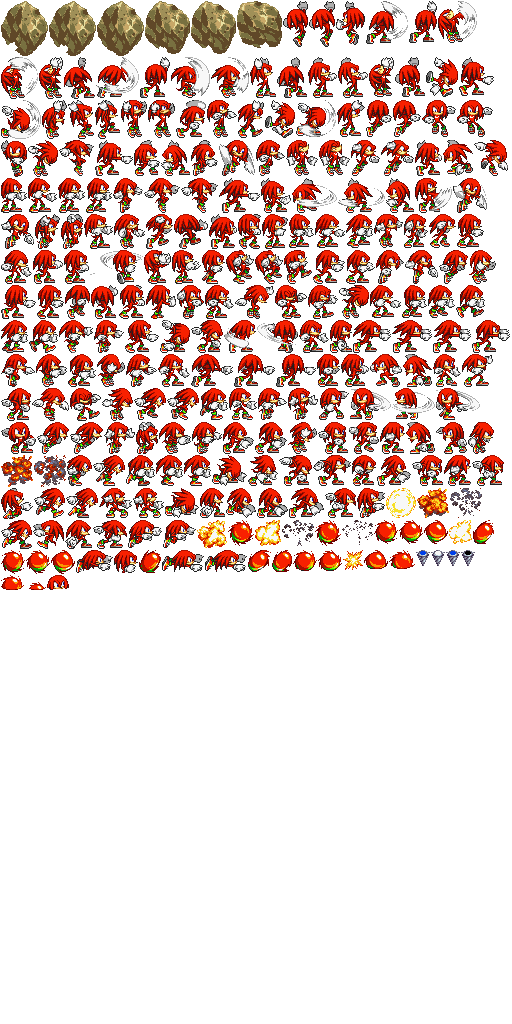
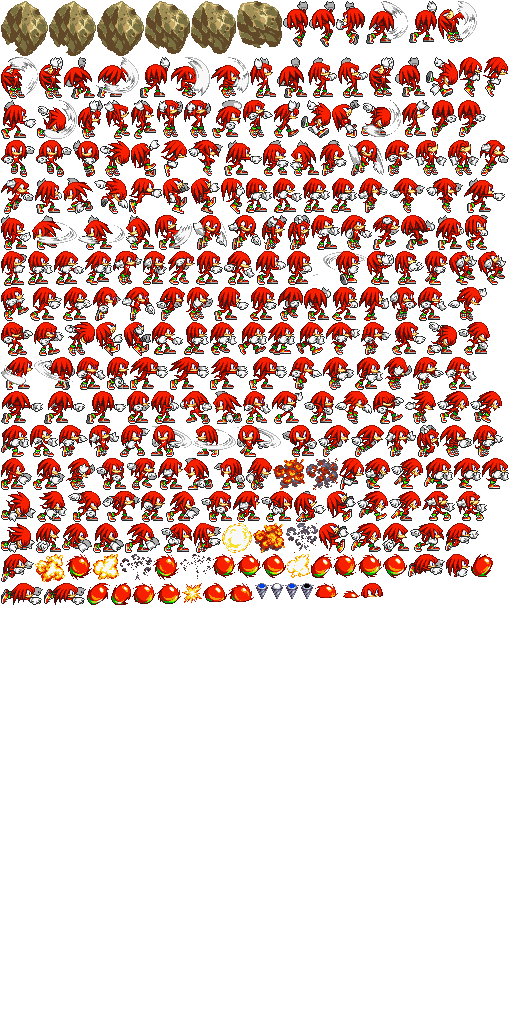
Adventure 2: Knuckles climbs in Sonic Advance's frames; balls only out of a roll
Knuckles' grab, cling, climb (fists in turn, run backwards climbing down) and
pull-up over the top come from Sonic Advance's sheet (ripped by AsuharaMoon),
mapped colour for colour onto his Sonic Battle palette; he faces the wall, and
pulls himself onto the ledge instead of popping up.

A jump is a ball only out of a Spin Dash or a roll (and only that ball hurts
what it touches); any other jump uses the runner's own jumping and falling
frames. Shadow's curl is his Spin Dash ball: his sheet's jump row is a
somersault.

(Carried over from Mikale4/post-parade@37f4cfc, where Red Ring Circuit began as the hall's arcade cabinet.)

Changed region(s): [[0.0, 0.0312, 1.0, 0.5938]]

diff --git a/adventure-sprites.js b/adventure-sprites.js
@@ -71,39 +71,41 @@
       "spin": [[168,490,26,26,12.9],[1,521,24,24,12.0],[26,521,24,24,12.1],[51,521,24,24,12.0]],
     } },
     knuckles: { url: "assets/guests/sb-knuckles.png", w: 512, h: 1024, f: {
-      "idle": [[289,214,25,34,10.3],[1,178,26,35,10.2],[28,178,29,35,10.9],[370,285,31,33,11.8],[315,214,30,34,12.4],[58,178,27,35,11.8],[86,178,26,35,11.9],[402,285,25,33,12.2]],
-      "dash": [[67,455,25,31,12.7],[34,488,31,30,18.3],[93,455,32,31,19.1],[134,388,32,32,19.8],[1,520,31,29,18.5],[66,488,32,30,19.1],[167,388,32,32,19.8]],
-      "start": [[428,285,27,33,12.5]],
-      "run": [[456,285,29,33,15.8],[126,455,29,31,14.9],[156,455,27,31,13.5],[1,320,27,33,14.0],[29,320,29,33,15.8],[200,388,28,32,13.9],[184,455,27,31,13.5],[346,214,27,34,14.0]],
-      "skid": [[59,320,34,33,15.8],[99,488,33,30,15.0],[133,488,31,30,13.3],[229,388,28,32,10.9]],
-      "jump": [[121,100,26,38,13.3],[148,100,27,38,13.7],[374,214,29,34,14.4],[94,320,30,33,12.8],[258,388,29,32,11.5]],
-      "fall": [[113,178,30,35,13.6],[144,178,36,35,18.7],[181,178,37,35,19.7],[59,140,35,36,17.9]],
-      "land": [[212,455,35,31,18.0],[165,488,34,30,18.2],[248,455,30,31,15.6]],
-      "glide": [[288,388,30,32,12.2],[128,520,34,28,16.0],[162,550,42,22,24.6],[205,550,42,22,23.9],[76,550,37,23,19.5],[163,520,33,28,15.7]],
-      "cling": [[33,520,31,29,15.8]],
-      "ball": [[374,520,24,24,12.0],[399,520,24,24,12.1],[424,520,24,24,12.0],[228,520,26,26,12.9]],
-      "atk1": [[404,214,24,34,11.3],[429,214,27,34,14.2],[219,178,41,35,16.3],[95,140,38,36,14.1],[125,320,34,33,14.7],[457,214,27,34,12.5]],
-      "atk2": [[459,57,35,39,12.7],[176,100,30,38,19.2],[1,100,40,39,19.8],[296,100,40,37,16.1],[160,320,30,33,14.7],[191,320,32,33,17.8],[1,250,31,34,15.3]],
-      "atk3": [[279,455,33,31,16.7],[313,455,38,31,21.1],[224,320,32,33,19.4],[96,57,43,41,26.2],[366,1,42,43,23.6],[409,1,28,42,20.5],[140,57,30,41,20.7],[33,250,30,34,12.5],[64,250,25,34,11.5]],
-      "heavy": [[261,178,30,35,10.0],[134,140,26,36,12.1],[319,388,30,32,15.1],[350,388,41,32,15.3],[392,388,43,32,14.5],[257,320,41,33,20.9],[90,250,53,34,31.5],[436,388,44,32,16.0],[292,178,45,35,16.2],[338,178,47,35,17.8],[161,140,29,36,12.8],[386,178,28,35,10.9],[1,422,35,32,16.5],[299,320,30,33,12.4]],
-      "upper": [[200,488,25,30,12.5],[65,520,27,29,14.4],[330,320,22,33,11.4],[415,178,37,35,11.7],[438,1,39,42,23.7],[1,57,37,42,18.2],[39,57,24,42,15.0],[369,57,25,40,16.1],[144,250,27,34,13.1],[172,250,29,34,10.6]],
-      "dashatk": [[202,250,23,34,10.8],[226,250,28,34,13.0],[255,250,28,34,12.6],[284,250,28,34,11.7],[353,320,38,33,16.7],[392,320,40,33,18.1],[433,320,38,33,17.0],[472,320,38,33,17.6],[313,250,32,34,14.8],[346,250,29,34,12.8]],
-      "airatk": [[191,140,27,36,12.5],[376,250,28,34,13.3],[219,140,36,36,16.0],[453,178,34,35,15.8],[1,214,33,35,16.3],[405,250,33,34,15.7],[1,354,34,33,15.3]],
-      "seek": [[207,100,30,38,11.5],[256,140,29,36,12.7],[439,250,29,34,17.1],[37,422,32,32,19.9],[70,422,33,32,20.0]],
-      "aim": [[104,422,31,32,14.6],[35,214,25,35,13.9],[61,214,22,35,13.0],[136,422,22,32,11.2],[42,100,25,39,15.6],[171,57,39,41,23.1],[211,57,38,41,21.2],[159,422,32,32,13.9],[36,354,31,33,13.3],[192,422,30,32,12.8]],
-      "shot": [[84,214,29,35,11.7],[352,455,24,31,12.1],[226,488,30,30,14.0],[257,488,31,30,13.2],[223,422,31,32,12.0],[337,100,28,37,15.3],[250,57,26,41,11.9],[68,100,26,39,11.7],[95,100,25,39,11.2],[238,100,26,38,15.0],[289,488,35,30,15.9],[377,455,34,31,17.0],[255,422,32,32,15.8],[68,354,28,33,13.4]],
-      "airshot": [[97,354,28,33,13.2],[288,422,29,32,14.9],[469,250,27,34,11.7],[286,140,32,36,12.6],[319,140,31,36,12.5],[114,214,31,35,13.5],[126,354,31,33,13.2]],
-      "power": [[158,354,32,33,13.8],[318,422,30,32,16.8],[412,455,31,31,17.5],[349,422,30,32,15.1],[351,140,29,36,12.9],[381,140,33,36,15.3],[146,214,27,35,14.2],[191,354,42,33,15.3],[234,354,41,33,16.9],[276,354,40,33,17.0],[1,285,35,34,15.3],[37,285,27,34,12.5],[317,354,23,33,11.2],[380,422,25,32,13.4],[444,455,27,31,14.9],[65,285,25,34,13.5],[366,100,26,37,12.0],[393,100,28,37,11.2],[174,214,34,35,14.8],[64,57,31,42,15.9],[277,57,30,41,16.7],[395,57,30,40,16.7],[91,285,27,34,14.0],[341,354,28,33,12.1],[119,285,26,34,13.0],[415,140,27,36,12.1],[209,214,28,35,12.5],[238,214,23,35,11.7],[422,100,34,37,17.4],[457,100,36,37,17.3],[370,354,32,33,15.3],[443,140,30,36,13.7],[403,354,29,33,11.9],[406,422,29,32,10.9],[436,422,31,32,15.4],[433,354,28,33,11.8]],
-      "airpower": [[374,520,24,24,12.0],[399,520,24,24,12.1],[424,520,24,24,12.0],[228,520,26,26,12.9],[293,550,24,21,11.9],[318,550,24,21,12.0],[364,550,24,19,12.4],[389,550,26,19,13.2],[1,575,45,15,10.5],[47,575,22,15,11.1],[114,550,24,23,11.6],[146,285,30,34,13.3],[283,1,25,46,16.7],[309,1,26,46,17.1],[336,1,29,44,16.0],[1,140,26,37,12.5],[177,285,27,34,12.9]],
-      "trap": [[262,214,26,35,13.1],[308,57,29,41,11.6],[338,57,30,41,10.3],[462,354,31,33,16.3],[93,520,34,29,18.4],[325,488,31,30,16.7],[472,455,32,31,17.9],[1,388,30,33,18.5],[205,285,29,34,12.4]],
-      "airtrap": [[357,488,28,30,13.8],[1,488,32,31,12.1],[235,285,39,34,24.5],[265,100,30,38,16.4],[426,57,32,40,18.5],[474,140,34,36,17.2],[32,388,37,33,20.6]],
-      "hit": [[275,285,32,34,13.2],[70,388,31,33,13.9],[308,285,30,34,12.6]],
-      "out": [[28,140,30,37,15.7],[339,285,30,34,15.8],[102,388,31,33,19.1],[468,422,26,32,14.8]],
+      "idle": [[28,251,25,34,10.3],[246,178,26,35,10.2],[273,178,29,35,10.9],[152,322,31,33,11.8],[54,251,30,34,12.4],[303,178,27,35,11.8],[331,178,26,35,11.9],[184,322,25,33,12.2]],
+      "dash": [[365,458,25,31,12.7],[357,491,31,30,18.3],[391,458,32,31,19.1],[437,391,32,32,19.8],[350,523,31,29,18.5],[389,491,32,30,19.1],[470,391,32,32,19.8]],
+      "start": [[210,322,27,33,12.5]],
+      "run": [[238,322,29,33,15.8],[424,458,29,31,14.9],[454,458,27,31,13.5],[268,322,27,33,14.0],[296,322,29,33,15.8],[1,425,28,32,13.9],[482,458,27,31,13.5],[85,251,27,34,14.0]],
+      "skid": [[326,322,34,33,15.8],[422,491,33,30,15.0],[456,491,31,30,13.3],[30,425,28,32,10.9]],
+      "jump": [[157,100,26,38,13.3],[184,100,27,38,13.7],[113,251,29,34,14.4],[361,322,30,33,12.8],[59,425,29,32,11.5]],
+      "fall": [[358,178,30,35,13.6],[389,178,36,35,18.7],[426,178,37,35,19.7],[188,140,35,36,17.9]],
+      "land": [[1,491,35,31,18.0],[1,523,34,30,18.2],[37,491,30,31,15.6]],
+      "glide": [[89,425,30,32,12.2],[445,523,34,28,16.0],[1,583,42,22,24.6],[44,583,42,22,23.9],[408,554,37,23,19.5],[1,554,33,28,15.7]],
+      "atk1": [[143,251,24,34,11.3],[168,251,27,34,14.2],[464,178,41,35,16.3],[224,140,38,36,14.1],[392,322,34,33,14.7],[196,251,27,34,12.5]],
+      "atk2": [[1,100,35,39,12.7],[212,100,30,38,19.2],[37,100,40,39,19.8],[361,100,40,37,16.1],[427,322,30,33,14.7],[458,322,32,33,17.8],[224,251,31,34,15.3]],
+      "atk3": [[68,491,33,31,16.7],[102,491,38,31,21.1],[1,357,32,33,19.4],[96,57,43,41,26.2],[366,1,42,43,23.6],[409,1,28,42,20.5],[140,57,30,41,20.7],[256,251,30,34,12.5],[287,251,25,34,11.5]],
+      "heavy": [[1,215,30,35,10.0],[263,140,26,36,12.1],[120,425,30,32,15.1],[151,425,41,32,15.3],[193,425,43,32,14.5],[34,357,41,33,20.9],[313,251,53,34,31.5],[237,425,44,32,16.0],[32,215,45,35,16.2],[78,215,47,35,17.8],[290,140,29,36,12.8],[126,215,28,35,10.9],[282,425,35,32,16.5],[76,357,30,33,12.4]],
+      "upper": [[36,523,25,30,12.5],[382,523,27,29,14.4],[107,357,22,33,11.4],[155,215,37,35,11.7],[438,1,39,42,23.7],[1,57,37,42,18.2],[39,57,24,42,15.0],[369,57,25,40,16.1],[367,251,27,34,13.1],[395,251,29,34,10.6]],
+      "dashatk": [[425,251,23,34,10.8],[449,251,28,34,13.0],[478,251,28,34,12.6],[1,287,28,34,11.7],[130,357,38,33,16.7],[169,357,40,33,18.1],[210,357,38,33,17.0],[249,357,38,33,17.6],[30,287,32,34,14.8],[63,287,29,34,12.8]],
+      "airatk": [[320,140,27,36,12.5],[93,287,28,34,13.3],[348,140,36,36,16.0],[193,215,34,35,15.8],[228,215,33,35,16.3],[122,287,33,34,15.7],[288,357,34,33,15.3]],
+      "seek": [[243,100,30,38,11.5],[385,140,29,36,12.7],[156,287,29,34,17.1],[318,425,32,32,19.9],[351,425,33,32,20.0]],
+      "aim": [[385,425,31,32,14.6],[262,215,25,35,13.9],[288,215,22,35,13.0],[417,425,22,32,11.2],[78,100,25,39,15.6],[171,57,39,41,23.1],[211,57,38,41,21.2],[440,425,32,32,13.9],[323,357,31,33,13.3],[473,425,30,32,12.8]],
+      "shot": [[311,215,29,35,11.7],[141,491,24,31,12.1],[62,523,30,30,14.0],[93,523,31,30,13.2],[1,458,31,32,12.0],[402,100,28,37,15.3],[250,57,26,41,11.9],[104,100,26,39,11.7],[131,100,25,39,11.2],[274,100,26,38,15.0],[125,523,35,30,15.9],[166,491,34,31,17.0],[33,458,32,32,15.8],[355,357,28,33,13.4]],
+      "airshot": [[384,357,28,33,13.2],[66,458,29,32,14.9],[186,287,27,34,11.7],[415,140,32,36,12.6],[448,140,31,36,12.5],[341,215,31,35,13.5],[413,357,31,33,13.2]],
+      "power": [[445,357,32,33,13.8],[96,458,30,32,16.8],[201,491,31,31,17.5],[127,458,30,32,15.1],[480,140,29,36,12.9],[1,178,33,36,15.3],[373,215,27,35,14.2],[1,391,42,33,15.3],[44,391,41,33,16.9],[86,391,40,33,17.0],[214,287,35,34,15.3],[250,287,27,34,12.5],[127,391,23,33,11.2],[158,458,25,32,13.4],[233,491,27,31,14.9],[278,287,25,34,13.5],[431,100,26,37,12.0],[458,100,28,37,11.2],[401,215,34,35,14.8],[64,57,31,42,15.9],[277,57,30,41,16.7],[395,57,30,40,16.7],[304,287,27,34,14.0],[151,391,28,33,12.1],[332,287,26,34,13.0],[35,178,27,36,12.1],[436,215,28,35,12.5],[465,215,23,35,11.7],[1,140,34,37,17.4],[36,140,36,37,17.3],[180,391,32,33,15.3],[63,178,30,36,13.7],[213,391,29,33,11.9],[184,458,29,32,10.9],[214,458,31,32,15.4],[243,391,28,33,11.8]],
+      "airpower": [[212,554,24,24,12.0],[237,554,24,24,12.1],[262,554,24,24,12.0],[66,554,26,26,12.9],[132,583,24,21,11.9],[157,583,24,21,12.0],[203,583,24,19,12.4],[228,583,26,19,13.2],[315,583,45,15,10.5],[361,583,22,15,11.1],[446,554,24,23,11.6],[359,287,30,34,13.3],[283,1,25,46,16.7],[309,1,26,46,17.1],[336,1,29,44,16.0],[73,140,26,37,12.5],[390,287,27,34,12.9]],
+      "trap": [[1,251,26,35,13.1],[308,57,29,41,11.6],[338,57,30,41,10.3],[272,391,31,33,16.3],[410,523,34,29,18.4],[161,523,31,30,16.7],[261,491,32,31,17.9],[304,391,30,33,18.5],[418,287,29,34,12.4]],
+      "airtrap": [[193,523,28,30,13.8],[294,491,32,31,12.1],[448,287,39,34,24.5],[301,100,30,38,16.4],[426,57,32,40,18.5],[94,178,34,36,17.2],[335,391,37,33,20.6]],
+      "hit": [[1,322,32,34,13.2],[373,391,31,33,13.9],[34,322,30,34,12.6]],
+      "out": [[100,140,30,37,15.7],[65,322,30,34,15.8],[405,391,31,33,19.1],[246,458,26,32,14.8]],
       "fx.shot": [[1,1,47,55,23.5],[145,1,45,53,22.5],[237,1,45,47,22.5],[191,1,45,53,22.5],[49,1,47,55,23.5],[97,1,47,55,23.5]],
-      "fx.power": [[343,550,20,20,10.0],[386,488,30,30,15.0],[449,520,23,24,11.5],[255,520,26,26,13.0],[197,520,30,28,15.0],[417,488,32,30,16.0],[1,455,32,32,16.0],[34,455,32,32,16.0],[450,488,32,30,16.0],[282,520,32,26,16.0],[342,520,31,25,15.5]],
-      "fx.trap": [[416,550,14,16,7.0],[431,550,14,16,7.0],[446,550,14,16,7.0],[461,550,14,16,7.0]],
-      "rev": [[248,550,23,22,13.3],[473,520,21,24,12.5],[139,550,22,23,12.6],[272,550,20,22,11.8]],
-      "spin": [[315,520,26,26,12.9],[1,550,24,24,12.0],[26,550,24,24,12.1],[51,550,24,24,12.0]],
+      "fx.power": [[182,583,20,20,10.0],[222,523,30,30,15.0],[287,554,23,24,11.5],[93,554,26,26,13.0],[35,554,30,28,15.0],[253,523,32,30,16.0],[273,458,32,32,16.0],[306,458,32,32,16.0],[286,523,32,30,16.0],[120,554,32,26,16.0],[180,554,31,25,15.5]],
+      "fx.trap": [[255,583,14,16,7.0],[270,583,14,16,7.0],[285,583,14,16,7.0],[300,583,14,16,7.0]],
+      "rev": [[87,583,23,22,13.3],[311,554,21,24,12.5],[471,554,22,23,12.6],[111,583,20,22,11.8]],
+      "spin": [[153,554,26,26,12.9],[333,554,24,24,12.0],[358,554,24,24,12.1],[383,554,24,24,12.0]],
+      "grab": [[129,178,33,36,14.7]],
+      "cling": [[319,523,30,30,13.8],[327,491,29,31,12.6]],
+      "climb": [[96,322,27,34,10.4],[332,100,28,38,14.8],[163,178,27,36,12.5],[124,322,27,34,10.7],[131,140,29,37,14.7],[191,178,29,36,13.3]],
+      "ledge": [[221,178,24,36,10.8],[459,57,23,40,11.5],[483,57,25,40,13.7],[161,140,26,37,14.1],[339,458,25,32,13.5]],
     } },
     amy: { url: "assets/guests/sb-amy.png", w: 512, h: 512, f: {
       "idle": [[195,224,28,33,15.5],[224,224,24,33,13.4],[187,188,23,34,12.8],[249,224,25,33,14.0],[275,224,28,33,15.9],[304,224,30,33,16.0],[211,188,33,34,17.0],[335,224,33,33,16.8]],
@@ -169,38 +171,37 @@
     } },
     shadow: { url: "assets/guests/sb-shadow.png", w: 512, h: 1024, f: {
       "idle": [[76,274,31,35,11.7],[108,274,30,35,13.4],[61,383,28,34,12.4],[90,383,26,34,11.6],[355,199,28,36,11.8],[384,199,30,36,11.7]],
-      "dash": [[139,274,28,35,14.3],[406,524,34,32,20.1],[117,383,34,34,20.2],[441,524,34,32,19.4],[476,524,35,32,20.6]],
-      "start": [[1,558,28,32,16.6]],
-      "run": [[415,199,31,36,19.3],[168,274,27,35,15.3],[196,274,42,35,25.3],[447,199,38,36,21.3],[239,274,42,35,26.0],[1,237,41,36,24.9],[152,383,43,34,27.1],[282,274,40,35,24.1],[44,489,43,33,27.1],[196,383,43,34,27.9],[30,558,41,32,26.2],[240,383,42,34,26.9],[283,383,41,34,25.3],[325,383,32,34,15.3],[323,274,27,35,15.3],[351,274,23,35,11.3],[375,274,38,35,24.3],[308,159,34,37,20.3],[414,274,40,35,25.0],[343,159,39,37,23.9],[358,383,38,34,26.1],[43,237,34,36,22.8],[397,383,38,34,26.1],[455,274,39,35,27.3],[88,489,38,33,25.3],[1,311,39,35,26.3],[41,311,39,35,24.3],[81,311,32,35,16.3]],
-      "skid": [[446,591,31,31,11.1],[1,624,36,31,11.1],[72,558,32,32,11.1],[38,624,34,31,11.1],[73,624,30,31,11.1],[104,624,32,31,11.1],[105,558,31,32,11.1],[137,624,34,31,11.1],[137,558,33,32,13.1],[171,558,28,32,11.1],[200,558,26,32,10.6]],
-      "jump": [[83,159,33,38,13.4],[383,159,31,37,12.2],[403,656,31,26,15.1]],
-      "ball": [[436,383,30,34,18.9],[90,656,30,30,8.0],[242,656,32,28,16.0]],
-      "fall": [[127,489,27,33,12.1],[114,311,27,35,12.1],[78,237,32,36,13.8],[337,110,34,39,19.6],[372,110,33,39,19.1]],
-      "land": [[227,558,26,32,12.0],[121,656,27,30,11.9],[467,383,24,34,11.7]],
-      "teleport": [[172,624,34,31,21.6],[207,624,34,31,20.4],[242,624,34,31,21.1],[277,624,34,31,21.1],[155,489,29,33,16.9]],
-      "after": [[254,558,27,32,12.0],[282,558,27,32,12.0],[310,558,27,32,11.4],[338,558,27,32,12.5]],
-      "atk1": [[111,237,28,36,12.6],[140,237,30,36,13.0],[142,311,38,35,10.7],[366,558,42,32,19.2],[409,558,42,32,19.4],[1,419,31,34,15.6]],
-      "atk2": [[185,489,28,33,15.3],[33,419,30,34,11.1],[406,110,35,39,15.2],[171,237,34,36,14.7],[181,311,25,35,10.1],[64,419,30,34,17.0],[312,624,36,31,20.5],[95,419,36,34,17.7]],
-      "atk3": [[207,311,25,35,10.1],[233,311,27,35,14.0],[261,311,39,35,12.3],[435,656,37,26,17.2],[275,656,40,28,13.9],[452,558,35,32,12.2],[1,591,38,32,16.2],[40,591,36,32,20.5],[132,419,36,34,17.7]],
-      "heavy": [[77,591,27,32,12.0],[301,311,30,35,13.2],[117,159,28,38,14.5],[256,110,26,40,13.6],[146,159,33,38,13.4],[415,159,31,37,12.2],[180,159,33,38,13.4],[447,159,35,37,15.1],[442,110,34,39,19.6],[105,591,36,32,20.5],[169,419,36,34,17.7]],
-      "upper": [[206,419,27,34,13.7],[234,419,27,34,13.7],[214,489,26,33,12.3],[142,591,33,32,16.2],[176,591,31,32,15.5],[208,591,31,32,15.2],[349,624,31,31,16.1],[240,591,31,32,15.2],[272,591,31,32,15.5],[381,624,31,31,15.8],[413,624,31,31,16.1],[304,591,31,32,14.9],[262,419,30,34,12.4]],
-      "dashatk": [[241,489,32,33,10.7],[274,489,32,33,11.9],[307,489,32,33,11.1],[340,489,32,33,11.1],[373,489,32,33,11.2],[406,489,32,33,11.2],[439,489,32,33,11.1],[472,489,32,33,11.1],[1,524,33,33,17.1],[35,524,33,33,17.1],[293,419,31,34,16.2]],
-      "airatk": [[332,311,35,35,17.6],[69,524,28,33,14.2],[98,524,35,33,18.8],[134,524,30,33,15.5],[445,624,31,31,16.1],[206,237,30,36,12.2],[368,311,29,35,12.1]],
-      "seek": [[325,419,32,34,20.1],[358,419,32,34,20.1],[391,419,32,34,19.5],[424,419,32,34,20.3],[457,419,30,34,16.1]],
+      "dash": [[139,274,28,35,14.3],[372,523,34,32,20.1],[117,383,34,34,20.2],[407,523,34,32,19.4],[442,523,35,32,20.6]],
+      "start": [[478,523,28,32,16.6]],
+      "run": [[415,199,31,36,19.3],[168,274,27,35,15.3],[196,274,42,35,25.3],[447,199,38,36,21.3],[239,274,42,35,26.0],[1,237,41,36,24.9],[152,383,43,34,27.1],[282,274,40,35,24.1],[1,489,43,33,27.1],[196,383,43,34,27.9],[1,557,41,32,26.2],[240,383,42,34,26.9],[283,383,41,34,25.3],[325,383,32,34,15.3],[323,274,27,35,15.3],[351,274,23,35,11.3],[375,274,38,35,24.3],[308,159,34,37,20.3],[414,274,40,35,25.0],[343,159,39,37,23.9],[358,383,38,34,26.1],[43,237,34,36,22.8],[397,383,38,34,26.1],[455,274,39,35,27.3],[45,489,38,33,25.3],[1,311,39,35,26.3],[41,311,39,35,24.3],[81,311,32,35,16.3]],
+      "skid": [[407,590,31,31,11.1],[439,590,36,31,11.1],[43,557,32,32,11.1],[476,590,34,31,11.1],[1,623,30,31,11.1],[32,623,32,31,11.1],[76,557,31,32,11.1],[65,623,34,31,11.1],[108,557,33,32,13.1],[142,557,28,32,11.1],[171,557,26,32,10.6]],
+      "jump": [[83,159,33,38,13.4],[383,159,31,37,12.2],[282,655,31,26,15.1]],
+      "fall": [[84,489,27,33,12.1],[114,311,27,35,12.1],[78,237,32,36,13.8],[337,110,34,39,19.6],[372,110,33,39,19.1]],
+      "land": [[198,557,26,32,12.0],[33,655,27,30,11.9],[436,383,24,34,11.7]],
+      "teleport": [[100,623,34,31,21.6],[135,623,34,31,20.4],[170,623,34,31,21.1],[205,623,34,31,21.1],[112,489,29,33,16.9]],
+      "after": [[225,557,27,32,12.0],[253,557,27,32,12.0],[281,557,27,32,11.4],[309,557,27,32,12.5]],
+      "atk1": [[111,237,28,36,12.6],[140,237,30,36,13.0],[142,311,38,35,10.7],[337,557,42,32,19.2],[380,557,42,32,19.4],[461,383,31,34,15.6]],
+      "atk2": [[142,489,28,33,15.3],[1,419,30,34,11.1],[406,110,35,39,15.2],[171,237,34,36,14.7],[181,311,25,35,10.1],[32,419,30,34,17.0],[240,623,36,31,20.5],[63,419,36,34,17.7]],
+      "atk3": [[207,311,25,35,10.1],[233,311,27,35,14.0],[261,311,39,35,12.3],[314,655,37,26,17.2],[154,655,40,28,13.9],[423,557,35,32,12.2],[459,557,38,32,16.2],[1,590,36,32,20.5],[100,419,36,34,17.7]],
+      "heavy": [[38,590,27,32,12.0],[301,311,30,35,13.2],[117,159,28,38,14.5],[256,110,26,40,13.6],[146,159,33,38,13.4],[415,159,31,37,12.2],[180,159,33,38,13.4],[447,159,35,37,15.1],[442,110,34,39,19.6],[66,590,36,32,20.5],[137,419,36,34,17.7]],
+      "upper": [[174,419,27,34,13.7],[202,419,27,34,13.7],[171,489,26,33,12.3],[103,590,33,32,16.2],[137,590,31,32,15.5],[169,590,31,32,15.2],[277,623,31,31,16.1],[201,590,31,32,15.2],[233,590,31,32,15.5],[309,623,31,31,15.8],[341,623,31,31,16.1],[265,590,31,32,14.9],[230,419,30,34,12.4]],
+      "dashatk": [[198,489,32,33,10.7],[231,489,32,33,11.9],[264,489,32,33,11.1],[297,489,32,33,11.1],[330,489,32,33,11.2],[363,489,32,33,11.2],[396,489,32,33,11.1],[429,489,32,33,11.1],[462,489,33,33,17.1],[1,523,33,33,17.1],[261,419,31,34,16.2]],
+      "airatk": [[332,311,35,35,17.6],[35,523,28,33,14.2],[64,523,35,33,18.8],[100,523,30,33,15.5],[373,623,31,31,16.1],[206,237,30,36,12.2],[368,311,29,35,12.1]],
+      "seek": [[293,419,32,34,20.1],[326,419,32,34,20.1],[359,419,32,34,19.5],[392,419,32,34,20.3],[425,419,30,34,16.1]],
       "aim": [[398,311,32,35,13.1]],
       "shot": [[1,199,31,37,11.8],[33,199,26,37,13.3],[60,199,26,37,13.7],[237,237,26,36,13.7],[431,311,27,35,13.9],[459,311,38,35,15.6],[1,347,40,35,16.8],[87,199,41,37,14.6],[129,199,40,37,13.4],[170,199,34,37,12.2],[264,237,31,36,11.8]],
-      "airshot": [[296,237,32,36,12.8],[214,159,35,38,13.8],[205,199,38,37,16.6],[477,110,28,39,13.0],[227,110,28,41,13.0],[148,110,29,44,13.7],[1,159,28,39,13.5],[42,347,28,35,12.9],[1,454,29,34,12.1]],
-      "power": [[165,524,27,33,12.9],[336,591,25,32,11.7],[193,524,25,33,10.1],[31,454,26,34,13.9],[71,347,29,35,13.9],[101,347,29,35,13.9],[131,347,29,35,14.6],[161,347,29,35,13.0],[250,159,28,38,14.8],[279,159,28,38,13.9],[283,110,26,40,13.6],[310,110,26,40,13.6],[244,199,26,37,12.4],[271,199,26,37,12.0],[298,199,26,37,12.4],[329,237,26,36,12.0],[356,237,26,36,12.4],[383,237,26,36,12.0],[191,347,30,35,13.1],[222,347,28,35,12.1],[251,347,30,35,13.1],[282,347,31,35,15.1],[314,347,33,35,16.1],[348,347,31,35,15.1]],
-      "airpower": [[58,454,27,34,12.9],[86,454,25,34,11.7],[380,347,25,35,10.1],[112,454,26,34,13.9],[139,454,30,34,14.9],[170,454,30,34,14.9],[201,454,30,34,15.6],[232,454,30,34,14.0],[410,237,33,36,15.2],[149,656,32,30,21.1],[477,624,31,31,21.1],[219,524,29,33,17.0],[362,591,28,32,13.0],[263,454,29,34,11.7]],
-      "trap": [[249,524,29,33,12.5],[391,591,27,32,14.4],[1,656,24,31,12.9],[293,454,32,34,14.2],[279,524,37,33,15.9],[317,524,29,33,15.2],[326,454,29,34,15.4],[356,454,31,34,19.2],[406,347,28,35,15.7]],
-      "airtrap": [[388,454,27,34,14.8],[419,591,26,32,14.1],[435,347,43,35,20.8],[347,524,29,33,13.8],[479,347,28,35,12.9],[1,383,28,35,12.6],[416,454,29,34,12.1]],
-      "hit": [[30,383,30,35,14.2],[446,454,29,34,16.0],[444,237,30,36,14.7]],
-      "out": [[475,237,27,36,16.2],[325,199,29,37,19.0],[1,274,27,36,14.0],[377,524,28,33,12.1]],
-      "fx.shot": [[316,656,30,28,15.0],[1,489,42,34,21.0],[29,274,46,36,23.0],[178,110,48,42,24.0],[409,56,48,48,24.0],[458,56,48,48,24.0],[1,110,48,48,24.0],[50,110,48,48,24.0],[99,110,48,48,24.0]],
+      "airshot": [[296,237,32,36,12.8],[214,159,35,38,13.8],[205,199,38,37,16.6],[477,110,28,39,13.0],[227,110,28,41,13.0],[148,110,29,44,13.7],[1,159,28,39,13.5],[42,347,28,35,12.9],[456,419,29,34,12.1]],
+      "power": [[131,523,27,33,12.9],[297,590,25,32,11.7],[159,523,25,33,10.1],[1,454,26,34,13.9],[71,347,29,35,13.9],[101,347,29,35,13.9],[131,347,29,35,14.6],[161,347,29,35,13.0],[250,159,28,38,14.8],[279,159,28,38,13.9],[283,110,26,40,13.6],[310,110,26,40,13.6],[244,199,26,37,12.4],[271,199,26,37,12.0],[298,199,26,37,12.4],[329,237,26,36,12.0],[356,237,26,36,12.4],[383,237,26,36,12.0],[191,347,30,35,13.1],[222,347,28,35,12.1],[251,347,30,35,13.1],[282,347,31,35,15.1],[314,347,33,35,16.1],[348,347,31,35,15.1]],
+      "airpower": [[28,454,27,34,12.9],[56,454,25,34,11.7],[380,347,25,35,10.1],[82,454,26,34,13.9],[109,454,30,34,14.9],[140,454,30,34,14.9],[171,454,30,34,15.6],[202,454,30,34,14.0],[410,237,33,36,15.2],[61,655,32,30,21.1],[405,623,31,31,21.1],[185,523,29,33,17.0],[323,590,28,32,13.0],[233,454,29,34,11.7]],
+      "trap": [[215,523,29,33,12.5],[352,590,27,32,14.4],[437,623,24,31,12.9],[263,454,32,34,14.2],[245,523,37,33,15.9],[283,523,29,33,15.2],[296,454,29,34,15.4],[326,454,31,34,19.2],[406,347,28,35,15.7]],
+      "airtrap": [[358,454,27,34,14.8],[380,590,26,32,14.1],[435,347,43,35,20.8],[313,523,29,33,13.8],[479,347,28,35,12.9],[1,383,28,35,12.6],[386,454,29,34,12.1]],
+      "hit": [[30,383,30,35,14.2],[416,454,29,34,16.0],[444,237,30,36,14.7]],
+      "out": [[475,237,27,36,16.2],[325,199,29,37,19.0],[1,274,27,36,14.0],[343,523,28,33,12.1]],
+      "fx.shot": [[195,655,30,28,15.0],[446,454,42,34,21.0],[29,274,46,36,23.0],[178,110,48,42,24.0],[409,56,48,48,24.0],[458,56,48,48,24.0],[1,110,48,48,24.0],[50,110,48,48,24.0],[99,110,48,48,24.0]],
       "fx.power": [[30,159,52,39,26.0],[65,56,58,52,29.0],[181,1,60,53,30.0],[1,1,61,54,30.5],[232,56,58,50,29.0],[242,1,56,53,28.0],[63,1,58,54,29.0],[291,56,57,50,28.5],[174,56,57,51,28.5],[299,1,59,53,29.5],[349,56,59,49,29.5],[359,1,62,53,31.0],[422,1,62,53,31.0],[1,56,63,53,31.5],[122,1,58,54,29.0],[124,56,49,52,24.5]],
-      "fx.trap": [[26,656,31,31,15.5],[58,656,31,31,15.5],[182,656,29,29,14.5],[212,656,29,29,14.5],[347,656,27,27,13.5],[375,656,27,27,13.5]],
-      "rev": [[121,688,23,22,13.3],[1,688,21,24,12.5],[98,688,22,23,12.6],[145,688,20,22,11.8]],
-      "spin": [[473,656,26,26,12.9],[23,688,24,24,12.0],[48,688,24,24,12.1],[73,688,24,24,12.0]],
+      "fx.trap": [[462,623,31,31,15.5],[1,655,31,31,15.5],[94,655,29,29,14.5],[124,655,29,29,14.5],[226,655,27,27,13.5],[254,655,27,27,13.5]],
+      "rev": [[1,687,23,22,13.3],[379,655,21,24,12.5],[476,655,22,23,12.6],[25,687,20,22,11.8]],
+      "spin": [[352,655,26,26,12.9],[401,655,24,24,12.0],[426,655,24,24,12.1],[451,655,24,24,12.0]],
     } },
   };
 })(window);

diff --git a/adventure.js b/adventure.js
@@ -27,14 +27,16 @@
  *   Only Sonic's sheet has a Spin Dash; the others spin his, in their own colours.
  * The moving is their platformers': everyone sinks in deep water and needs air, as in the
  * classic games (Tails alone swims, by flying).
- *   Sonic     the fastest feet; curls into a ball when he jumps; Spin Dash (Sonic 2). In the
+ *   Sonic     the fastest feet; Spin Dash (Sonic 2). In the
  *             air, Sonic Ballet: a second jump that homes on anything near, curled, as the
  *             Homing Attack does (Sonic Adventure).
  *   Tails     flies (Sonic 2 & 3): Space again in the air, tapped to climb, until he tires
  *             after about five seconds; under water the same stroke swims. Spin Dash.
  *   Knuckles  the slowest and lowest jumper, the hardest hitter. Space again in the air,
  *             held, glides; a glide into a wall grabs it, and Up and Down climb (Sonic &
- *             Knuckles). Spin Dash, and he curls when he jumps.
+ *             Knuckles), over the top when it ends. Spin Dash. Sonic Battle draws no climb, so
+ *             his grab, cling, climb and pull-up are Sonic Advance's (ripped by AsuharaMoon),
+ *             in his Sonic Battle colours.
  *   Amy       her Piko Piko Hammer is in her heavy, upper and air attacks, and Up + X
  *             swings her into a Hammer Jump (Sonic Advance). Double Jump. Spin Dash.
  *   Rouge     flies on her wings for a short while, then glides down slowly; Down lets go
@@ -69,20 +71,21 @@
   /* Speeds in metres a second, gravity 34 m/s^2: a 12.4 jump clears two metres; a spring
      throws anyone about six and a half. Run speeds follow Sonic Battle's ratings (Shadow 8,
      Sonic 7, Tails and Amy 6, Rouge 5, Knuckles 3, of 9); every jump still clears two
-     metres, the stages' rule. `spin`: curls into a ball to jump. */
+     metres, the stages' rule. A jump out of a Spin Dash or a roll stays a ball and hurts what
+     it touches; any other jump is the runner's own jumping frames. */
   const CAST = [
     { id: "sonic", name: "Sonic", w: 0.56, h: 1.02, run: 14.6, accel: 22, airAccel: 14, jump: 12.4,
-      spin: true, spinDash: true, air: "ballet", from: "Sonic the Hedgehog",
+      spinDash: true, air: "ballet", from: "Sonic the Hedgehog",
       moves: "Spin Dash · Sonic Ballet",
       grades: { Speed: "S", Jump: "B", Air: "B", Power: "B" },
-      text: "The fastest feet. Curls up when he jumps; Down + Space revs a Spin Dash. In the air, Sonic Ballet homes on anything near." },
+      text: "The fastest feet. Down + Space revs a Spin Dash; jump out of it as a ball. In the air, Sonic Ballet homes on anything near." },
     { id: "tails", name: "Tails", w: 0.56, h: 0.96, run: 13.6, accel: 19, airAccel: 14, jump: 12.1,
       spinDash: true, air: "fly", flyTime: 5, from: "Miles \"Tails\" Prower",
       moves: "Flight · Energy Ball",
       grades: { Speed: "A", Jump: "C", Air: "S", Power: "C" },
       text: "Space again in the air to fly, tapping to climb, until he tires; under water he swims. Energy Ball, and a Big Hand." },
     { id: "knuckles", name: "Knuckles", w: 0.62, h: 1.06, run: 11.6, accel: 16, airAccel: 11, jump: 12.0,
-      spin: true, spinDash: true, air: "glide", climb: true, from: "Knuckles the Echidna",
+      spinDash: true, air: "glide", climb: true, from: "Knuckles the Echidna",
       moves: "Glide · Climb",
       grades: { Speed: "C", Jump: "C", Air: "A", Power: "S" },
       text: "Hold Space in the air to glide; glide into a wall to grab it, then climb with Up and Down. Slow, and hits the hardest." },
@@ -97,7 +100,7 @@
       grades: { Speed: "B", Jump: "B", Air: "A", Power: "B" },
       text: "Space again in the air to fly a while, then she glides down; Down lets go. Up + C in the air: Spiral Dive, down through rock." },
     { id: "shadow", name: "Shadow", w: 0.56, h: 1.06, run: 15.4, accel: 24, airAccel: 15, jump: 12.8,
-      spin: true, spinDash: true, air: "teleport", from: "Shadow the Hedgehog",
+      spinDash: true, air: "teleport", from: "Shadow the Hedgehog",
       moves: "Chaos Control",
       grades: { Speed: "S", Jump: "A", Air: "A", Power: "A" },
       text: "Chaos Control: Space in the air teleports him ahead, twice a jump. Z in the air is a Homing Attack; C a Chaos Spear." },
@@ -962,7 +965,7 @@
      live frames of a blow, or with the rainbow's shine */
   const BODY_HITS = { roll: 1, charge: 1, homing: 1, glide: 1, dive: 1, tornado: 1 };
   const attacking = p => p.star > 0 || !!BODY_HITS[p.state] || (p.state === "atk" && p.mv.live) ||
-                         (p.c.spin && p.curl && !p.ground && p.state !== "hurt");
+                         (p.curl && !p.ground && p.state !== "hurt");
   /** The ground under (x, y), slopes and planks included, within a metre or so; or null. */
   function groundY(x, y) {
     const ci = Math.floor(x);
@@ -1140,6 +1143,7 @@
     if (ice) { acc *= 0.32; fr = 2.2; }
     p.st -= dt;
     p.hh = (p.state === "crouch" || p.state === "roll" || p.state === "charge") ? 0.72 : c.h;
+    if (p.state === "ledge") { stepLedge(p, dt); interact(p, dt); return; }
 
     // what they are in the middle of
     switch (p.state) {
@@ -1268,8 +1272,8 @@
     const c = p.c;
     p.vy = c.jump * (mud ? 0.82 : 1) * (p.inWater ? 0.82 : 1);
     p.ground = false; p.coyote = 0; p.jumping = true; p.on = null;
+    p.curl = p.state === "roll";                         // out of a Spin Dash or a roll: still a ball
     if (p.state !== "roll") p.state = "run";
-    p.curl = !!c.spin;
     SFX.jump();
   }
   /** Space again in the air: the runner's air action. */
@@ -1327,7 +1331,7 @@
     if (c.id === "shadow") p.inv = Math.max(p.inv, 0.3);                                      // he is gone while he dashes
     SFX.dash();
   }
-  function startClimb(p, wall) { p.state = "climb"; p.wall = wall; p.face = wall; p.vx = 0; p.vy = 0; p.curl = false; SFX.grab(); }
+  function startClimb(p, wall) { p.state = "climb"; p.wall = wall; p.face = wall; p.vx = 0; p.vy = 0; p.curl = false; p.grabT = 0.14; SFX.grab(); }
   /* Knuckles on a wall: Up and Down climb, over the top when it ends; Space leaps off. */
   function stepClimb(p, dir) {
     const c = p.c;
@@ -1336,17 +1340,26 @@
     const wallMid = solid(tile(Math.floor(wx), Math.floor(p.y + p.hh * 0.5)));
     const wallFeet = solid(tile(Math.floor(wx), Math.floor(p.y + 0.05)));
     if (!wallMid) {
-      if (wallFeet) {                                      // over the top, onto the ledge
-        p.y = Math.floor(p.y + 0.05) + 1; p.x += p.wall * (c.w / 2 + 0.35);
-        p.ground = true; p.state = "run"; p.landT = 0.14; p.airUses = 0; p.flyLeft = 0;
+      if (wallFeet) {                                      // over the top: he pulls himself up onto the ledge
+        p.state = "ledge"; p.vx = p.vy = 0;
+        p.ledge = { t: 0, x0: p.x, y0: p.y, x1: p.x + p.wall * (c.w / 2 + 0.35), y1: Math.floor(p.y + 0.05) + 1 };
       } else p.state = "run";
       return;
     }
     if (input.jp) {
-      p.state = "run"; p.face = -p.wall; p.vx = -p.wall * 7; p.vy = 10.5; p.jumping = true; p.curl = !!c.spin; p.airUses = 0;
+      p.state = "run"; p.face = -p.wall; p.vx = -p.wall * 7; p.vy = 10.5; p.jumping = true; p.curl = false; p.airUses = 0;
       input.jp = 0;                                        // the leap, not a glide as well
       SFX.jump();
     } else if (dir === -p.wall) p.state = "run";
+  }
+
+  /* Over the top of a wall: Sonic Advance's pull-up, up first and then onto the ledge. */
+  const LEDGE_T = 0.32;
+  function stepLedge(p, dt) {
+    const L = p.ledge; L.t += dt;
+    const k = Math.min(1, L.t / LEDGE_T), e = k * k * (3 - 2 * k);
+    p.x = lerp(L.x0, L.x1, e); p.y = lerp(L.y0, L.y1, Math.min(1, e * 1.5)); p.vx = p.vy = 0;
+    if (k >= 1) { p.state = "run"; p.ground = true; p.y = L.y1; p.on = null; p.onTile = null; p.airUses = 0; p.flyLeft = 0; p.landT = 0.1; p.ledge = null; }
   }
 
   // ---------------------------------------------------------------- the blows
@@ -1695,7 +1708,7 @@
         if (p.vy <= 0.5 && touches(e.x, e.y + 0.3, 0.42) && p.y >= e.y - 0.1) {
           p.vy = 21; p.ground = false; p.y = Math.max(p.y, e.y + 0.5); p.airMove = false; p.airSp = false; p.airUses = 0; p.jumping = false;
           p.flyLeft = p.c.flyTime || 0;
-          if (p.state !== "roll") p.state = "run"; p.curl = !!p.c.spin; e.sq = 1; SFX.spring();
+          p.curl = p.state === "roll"; if (p.state !== "roll") p.state = "run"; e.sq = 1; SFX.spring();
         }
       } else if (e.t === "dash") {
         if (p.ground && touches(e.x, e.y + 0.1, 0.6)) { if (p.vx < 18) { p.vx = 18; p.face = 1; SFX.dash(); burst(p.x, p.y + 0.2, [0xf2d040, 0xffffff], 5, 3); } }
@@ -1726,8 +1739,8 @@
       if (bx1 < ex0 || bx0 > ex1 || by1 < ey0 || by0 > ey1) continue;
       if (attacking(p)) {
         defeat(e);
-        if (p.state === "homing") { p.state = "run"; p.vy = 10; p.vx = p.face * 4; p.airMove = false; p.airUses = 0; p.curl = !!p.c.spin; }
-        else if (p.c.spin && p.curl && !p.ground && p.vy < 0) p.vy = input.J ? 12 : 9;
+        if (p.state === "homing") { p.state = "run"; p.vy = 10; p.vx = p.face * 4; p.airMove = false; p.airUses = 0; p.curl = true; }
+        else if (p.curl && !p.ground && p.vy < 0) p.vy = input.J ? 12 : 9;
       } else if (p.vy < -0.5 && by0 > ey0 + e.h * 0.4) {
         defeat(e); p.vy = input.J ? 13 : 9.5; p.ground = false; p.airMove = false; p.airUses = 0; SFX.stomp();
         if (p.state !== "fly" && p.state !== "glide") p.state = "run";
@@ -1868,7 +1881,7 @@
   function drawRunner(p, dt) {
     const c = p.c, a = p.anim, sp = Math.abs(p.vx), id = c.id;
     p.landT = Math.max(0, p.landT - dt); p.dblT = Math.max(0, (p.dblT || 0) - dt);
-    p.balT = Math.max(0, (p.balT || 0) - dt); p.catchT = Math.max(0, (p.catchT || 0) - dt);
+    p.balT = Math.max(0, (p.balT || 0) - dt); p.catchT = Math.max(0, (p.catchT || 0) - dt); p.grabT = Math.max(0, (p.grabT || 0) - dt);
     const count = nm => framesOf(id, nm).length;
     let name, fps = 10, loop = true, face = p.face, pick = null;
     if (p.dead) { name = "out"; fps = 8; loop = false; }
@@ -1877,7 +1890,7 @@
       case "atk": name = p.mv.name; pick = () => Math.floor(p.mv.t * p.mv.fps); break;
       case "special": name = p.sp.body; pick = () => Math.floor(p.sp.t * p.sp.fps) % count(name); break;
       case "seek": name = "seek"; fps = 14; loop = false; break;
-      case "homing": name = "ball"; fps = 30; break;
+      case "homing": name = "spin"; fps = 30; break;
       case "charge": name = "rev"; fps = 14 + p.rev * 22; break;              // Sonic's Spin Dash, in their colours
       case "roll": name = "spin"; fps = 12 + sp * 1.4; break;
       case "dash": name = "dash"; fps = 16; loop = false; break;
@@ -1887,7 +1900,12 @@
         name = "land"; pick = t => Math.min(Math.floor(t * 20), k);
         break;
       }
-      case "climb": name = "cling"; pick = () => 0; break;
+      case "climb":                                        // Sonic Advance's climb: he faces the wall
+        if (p.grabT > 0) { name = "grab"; pick = () => 0; }
+        else if (p.vy) { name = "climb"; pick = () => { const n = count("climb"), k = Math.floor(p.y / 0.16); return ((k % n) + n) % n; }; }
+        else { name = "cling"; fps = 2.5; }
+        break;
+      case "ledge": name = "ledge"; pick = () => Math.floor(p.ledge.t / LEDGE_T * count("ledge")); break;
       case "glide": name = "glide"; pick = t => t * 12 < 2 ? Math.floor(t * 12) : 2 + Math.floor(t * 10) % 3; break;
       case "fly":
         if (id === "tails") { name = "fly"; pick = t => 1 + Math.floor(t * (p.flyLeft > 0 ? 16 : 7)) % 4; }
@@ -1909,7 +1927,7 @@
           if (p.dblT > 0) { name = "double"; fps = 12; loop = false; }
           else if (p.balT > 0) { name = "spark"; fps = 16; loop = false; }
           else if (p.catchT > 0 && id === "rouge") { name = "catch"; fps = 8; loop = false; }
-          else if (c.spin && p.curl) { name = "ball"; fps = 12 + sp * 1.4; }
+          else if (p.curl) { name = "spin"; fps = 12 + sp * 1.4; }          // out of a roll: the Spin Dash ball
           else { name = p.vy > 0 ? "jump" : "fall"; loop = false; }
         }
         else if (p.landT > 0) { name = "land"; fps = 22; loop = false; }
@@ -2175,7 +2193,7 @@
           <div class="adv-keys">${TOUCH ? "On screen: the pad moves, crouches and picks a move (Up or Down with Heavy or Special); Jump, Light, Heavy and Special." :
             `<b>&larr; &rarr;</b> run, twice to dash &middot; <b>Space</b> jump, again in the air &middot; <b>Z</b> light &middot; <b>X</b> heavy &middot; <b>C</b> special<br>
              <b>&uarr;</b> or <b>&darr;</b> with <b>X</b> or <b>C</b> for another move &middot; <b>&darr;</b> crouch &middot; <b>&darr; + Space</b> Spin Dash, or drop through &middot; <b>Esc</b> pause`}</div>
-          <div class="adv-credit">Sonic, Tails, Knuckles, Amy, Rouge and Shadow belong to SEGA. Their sprites are from SEGA's Sonic Battle (Game Boy Advance, 2003), ripped by QuadFactor (The Spriters Resource).</div>
+          <div class="adv-credit">Sonic, Tails, Knuckles, Amy, Rouge and Shadow belong to SEGA. Their sprites are from SEGA's Sonic Battle (Game Boy Advance, 2003), ripped by QuadFactor; Knuckles' climbing is from Sonic Advance (2001), ripped by AsuharaMoon (both The Spriters Resource).</div>
         </div>
       </div>`;
     cards = Array.from(ov.querySelectorAll(".adv-spr")).map((cv, k) => ({ cv, who: cv.dataset.who, i: k * 2, t: 0 }));
